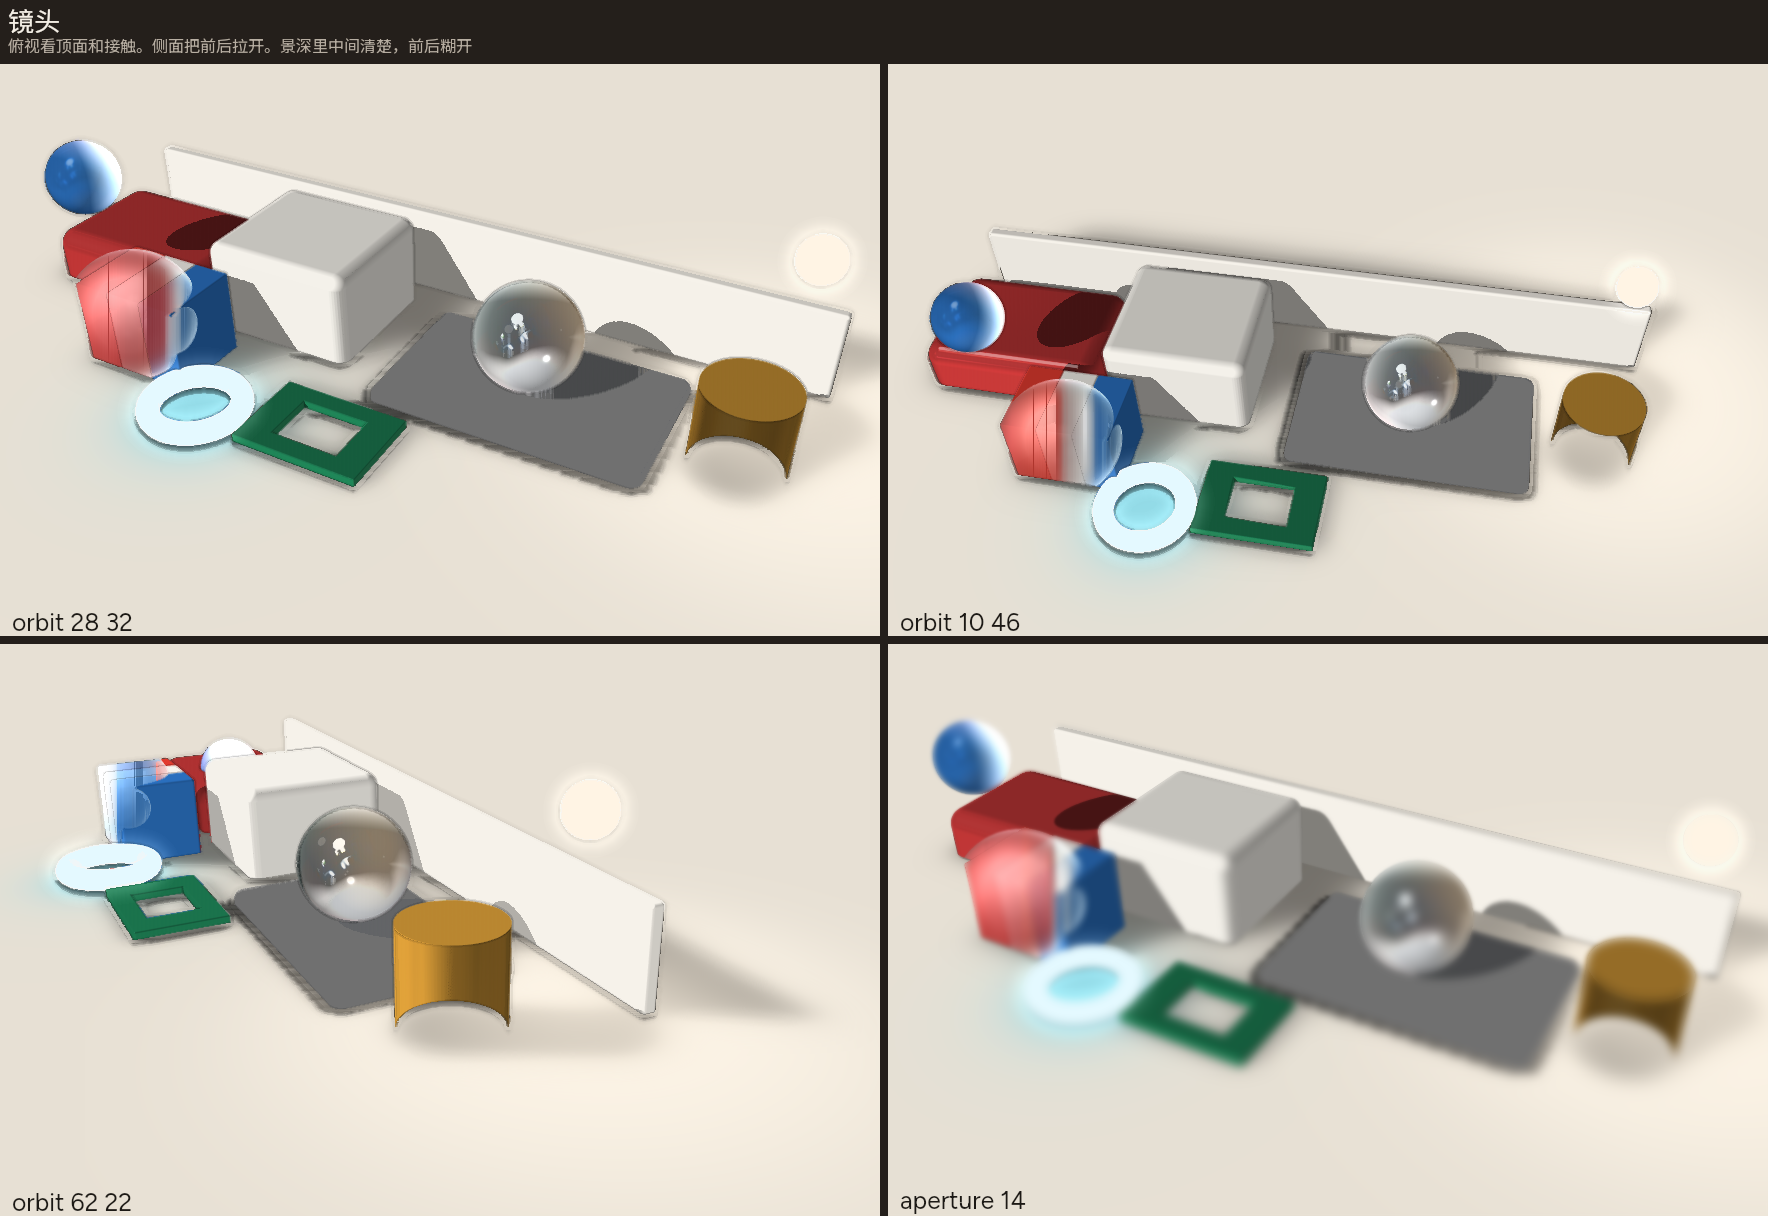
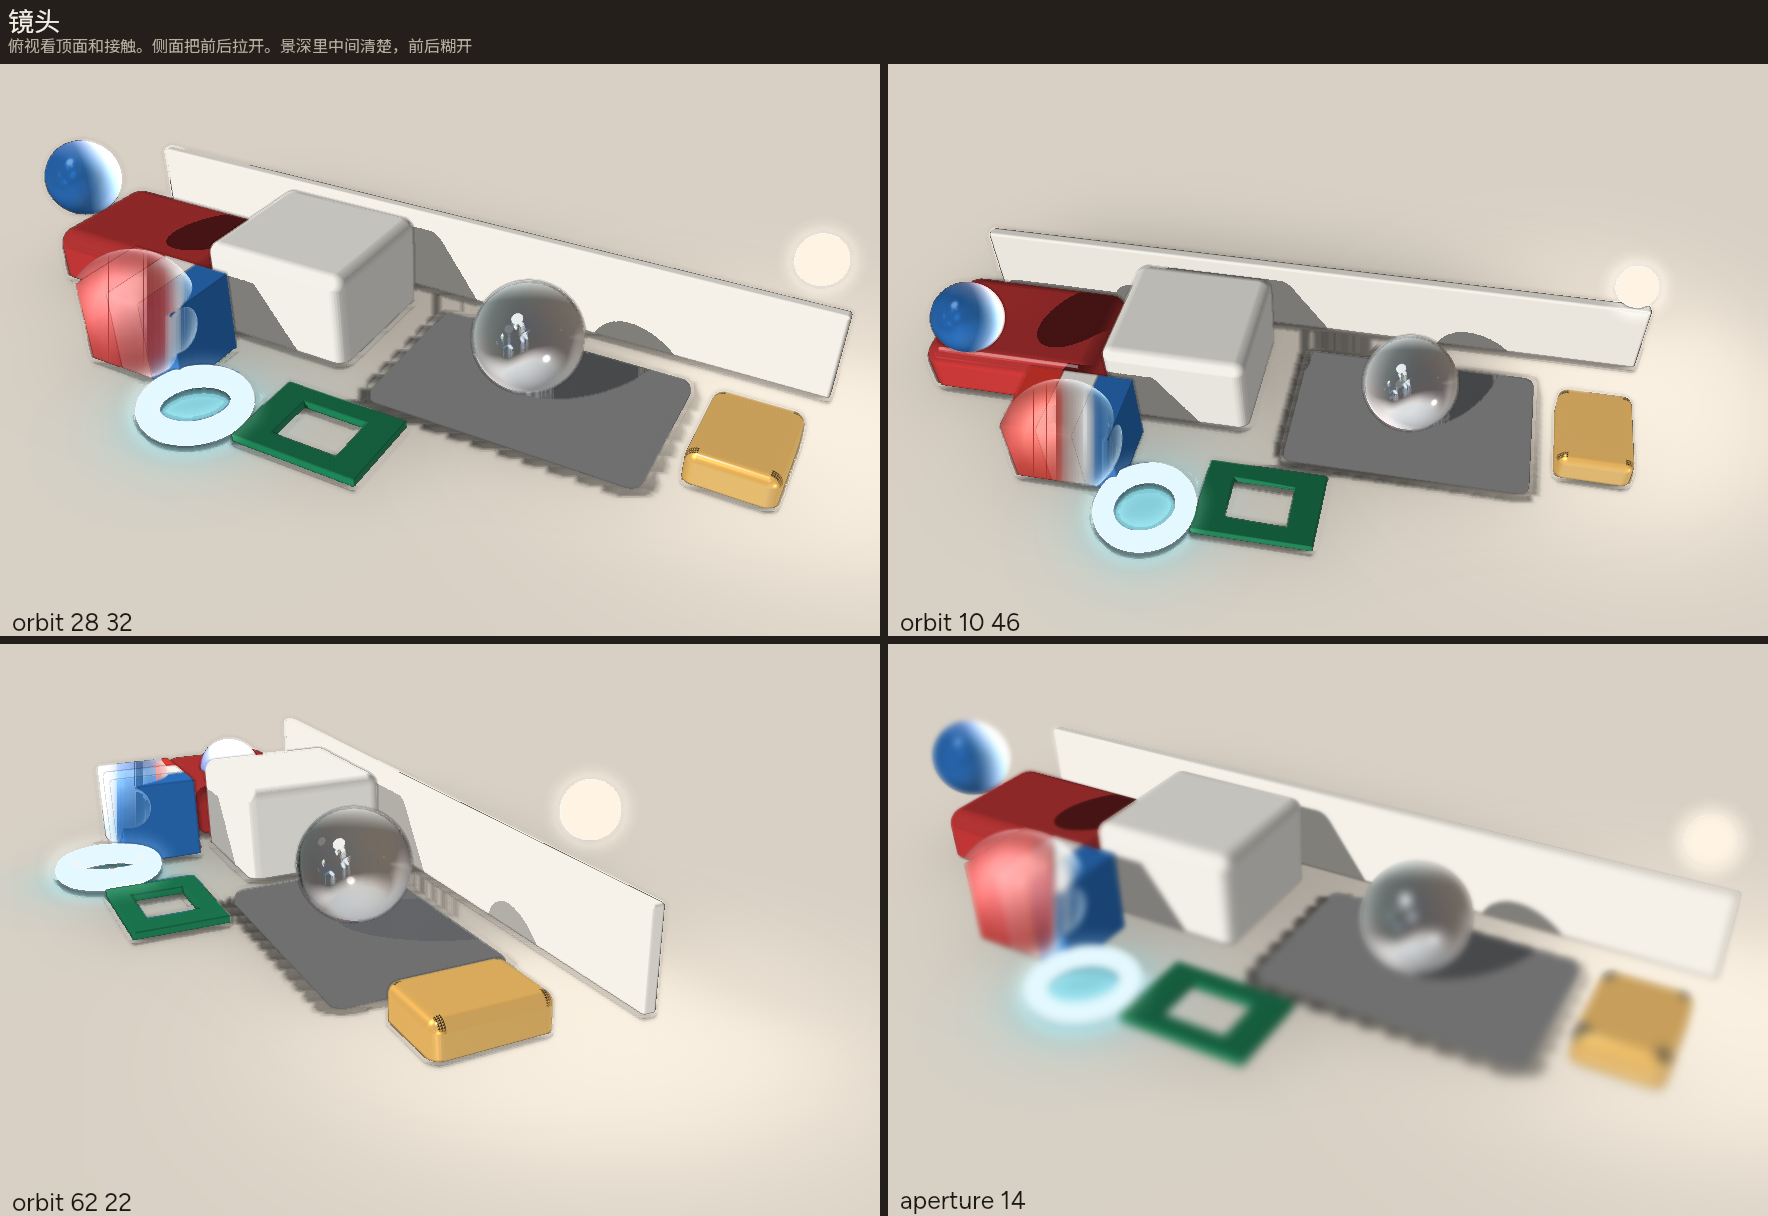
QUALITY-6 rest5c: camera gold/glass/shadow; lines contact ground + halo
Side/orbit camera: softer ground penumbra, metal gold box, clearer side glass.
Lines: fill-less ground for contact shadows; elbow halo 8→3. Align gallery.spec
glass expect with bench (0.06).

diff --git a/scripts/gallery-3d.ts b/scripts/gallery-3d.ts
@@ -305,7 +305,12 @@ function lines(): string {
   // visible. Framing keeps left/right empty ≤ 15% and empty-below ≤ 25%.
   // Technical shading avoids studio specular blow-past of overexposureMax.
   // Rest5b: matte cream fills — bare fill read as brushed diagonal banding for A.
+  // Rest5c: fill-less ground for contact shadows (A float). An opaque ground at
+  // the board feet either buried the RX 38 stage or forced an RX 90 floor seat
+  // that broke hole-paper / contour gates and overexposure. No fill → shadows
+  // only, no buried-in-ground. Elbow halo 8→3 (banded halo).
   return `<layer width="1180" height="516" camera="fov 36, orbit 28 18, distance 1060, at 560 310 0" shading="technical">
+    <ground id="ground" y="620" rotateX="90" shadow-blur="70" shadow-opacity="0.28" />
     <layer x="40" y="20" width="1100" height="580" rotateX="38" preserve-3d>
       <rect id="box" x="40" y="70" width="260" height="200" depth="110" fill="#f4efe6" material="matte" stroke="#1c1915" stroke-width="3 2 1.9" hidden="#a89880" />
       <cylinder id="piercing" cx="170" cy="170" r="52" height="320" fill="#ebe3d6" material="matte" stroke="#1c1915" stroke-width="3 2 1.9" hidden="#a89880" />
@@ -315,7 +320,7 @@ function lines(): string {
       <layer x="380" y="320">
         <path id="hole-plate" d="M0 0 H180 V120 H0 Z M45 28 V92 H135 V28 Z" depth="28" fill="#f4efe6" material="matte" stroke="#1c1915" stroke-width="3 2 1.9" hidden="#a89880" />
       </layer>
-      <tube id="elbow" x="60" y="380" d="M0 16 H220 V160" r="16" fill="none" stroke="#1c1915" stroke-width="3 2 1.9" halo="8" />
+      <tube id="elbow" x="60" y="380" d="M0 16 H220 V160" r="16" fill="none" stroke="#1c1915" stroke-width="3 2 1.9" halo="3" />
     </layer>
   </layer>`
 }
@@ -394,7 +399,6 @@ function buildPlates(): { sheet: string; title: string; cols: number; cells: Pla
     }),
   }
   // Rest5: mid-warm page like still — dark #241f1b made camera/shade wall fringe loud for A.
-  // Rest5: mid-warm page like still — dark #241f1b made camera/shade wall fringe loud for A.
   const shading = (['studio', 'toon', 'technical', 'manga'] as const).map((name) => ({
     name: `3d-shade-${name}`,
     source: cell(name, bench(BENCH_CAMERA, `shading="${name}"`), BENCH_W, BENCH_H, '#4a453e'),
@@ -421,11 +425,24 @@ function buildPlates(): { sheet: string; title: string; cols: number; cells: Pla
   ]
   const cameraCells = cameras.map((item) => {
     let body = bench(item.camera)
+      // Rest5c: softer floor penumbra (B stair shadow); gold box not arched cylinder.
+      .replace(
+        '<ground id="ground" y="530" rotateX="90" fill="#e7e0d4" shadow-blur="40" shadow-opacity="0.5" />',
+        '<ground id="ground" y="530" rotateX="90" fill="#d8d0c4" shadow-blur="120" shadow-opacity="0.22" />',
+      )
+      .replace(
+        '<circle id="gold" cx="780" cy="150" r="40" depth="160" fill="#e0a33a" material="plastic 0.22" />',
+        '<rect id="gold" x="744" y="88" width="76" height="98" depth="60" rx="10" fill="#e8b050" material="finish metal, color #e8b050, roughness 0.28, metalness 0.9" />',
+      )
     // Rest5b: B side orbit (62 22) read blue-float as hanging with no contact.
     if (item.file === 'side') {
       body = body.replace(
         '<sphere id="blue-float" cx="160" cy="200" r="34" z="140" fill="#2a6fbe" material="plastic 0.42" />',
         '<sphere id="blue-float" cx="165" cy="118" r="34" z="50" fill="#2a6fbe" material="plastic 0.42" />',
+      ).replace(
+        // Rest5c: clearer glass on side — B called cube a smeared stack.
+        '<sphere id="glass" cx="264" cy="268" r="58" z="58" fill="#d8ebe6a0" material="glass 0.06" />',
+        '<sphere id="glass" cx="264" cy="268" r="58" z="58" fill="#f2f7f4a0" material="glass 0.03" />',
       )
     }
     return {

diff --git a/src/gallery.spec.ts b/src/gallery.spec.ts
@@ -44,7 +44,7 @@ describe('效果图覆盖', () => {
     const bench = read('3d-shade-studio.layer')
     expect(bench).toContain('material="neon"')
     expect(bench).toContain('material="lamp"')
-    expect(bench).toContain('material="glass 0.07"')
+    expect(bench).toContain('material="glass 0.06"')
     for (const name of ['studio', 'toon', 'technical', 'manga']) {
       expect(read(`3d-shade-${name}.layer`)).toContain(`shading="${name}"`)
     }
